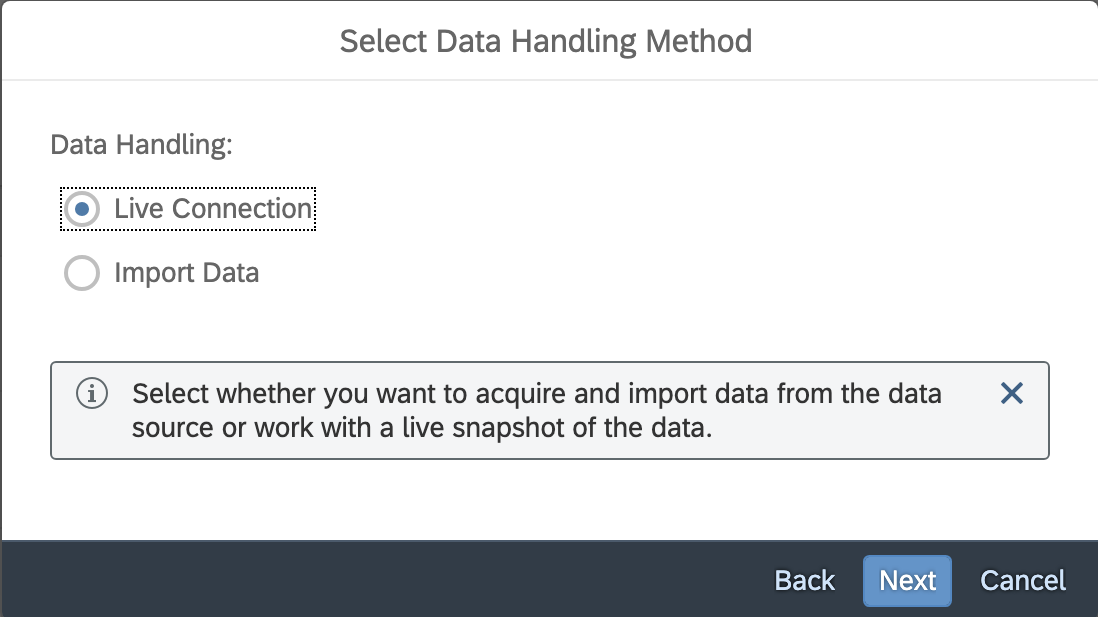
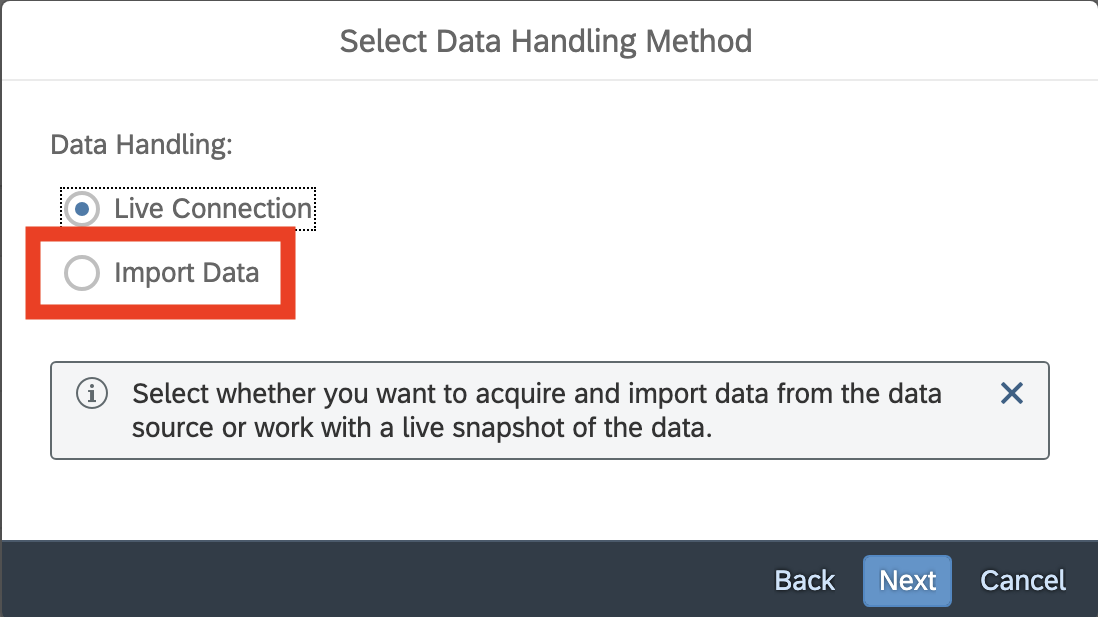
Ex1 Commit
Ready for Review

Changed region(s): [[0.0, 0.3387, 0.2787, 0.5235]]

diff --git a/exercises/ex1/README.md b/exercises/ex1/README.md
@@ -1,44 +1,306 @@
 # Exercise 1 - Exercise 1 Description
 
-In this exercise, we will create...  Teched2025-DA260_Ex1_Games2022
-
-## Exercise 1.1 Sub Exercise 1 Description
-
-After completing these steps you will have created...
-
-1. Click here.
-<br>![](/exercises/ex1/images/01_01_0010.png)
-
-2.	Insert this line of code.
-```abap
-response->set_text( |Hello World! | ). 
-```
+In contrast to Datasphere, where replication flows put data into tables that you can manipulate at will later on, data in SAC - whether acquired or federated - is always in the context of a semantic model.  Data can be added at the time of model creation, or added via load jobs later.  SAC models have automated table management, so the user simply worries about the semantic model and the required table schema is automatically created behind the scenes.
 
 
+Note!  Data acquisition and replication are synonyms.
 
-## Exercise 1.2 Sub Exercise 2 Description
+Teched2025-DA260_Ex1_Games2022
 
-After completing these steps you will have...
+## Step 0
 
-1.	Enter this code.
-```abap
-DATA(lt_params) = request->get_form_fields(  ).
-READ TABLE lt_params REFERENCE INTO DATA(lr_params) WITH KEY name = 'cmd'.
-  IF sy-subrc <> 0.
-    response->set_status( i_code = 400
-                     i_reason = 'Bad request').
-    RETURN.
-  ENDIF.
+With SAC open, take a moment to orient yourself.  The navigation bar on the left side and the information bar along the top are shared across BDC tools, so if you know the basics of how to navigate in one, you know it for all.  
 
-```
+In the center canvas, you have some options.  There are four tabs, 
+- **Today**: Where you can access tutorials, see files that you have recently opened and use AI to answer questions about your data.
+- **Catalog**: Where you can access the data catalog.
+- **Favorites**: Where you can see items that you have tagged as favorites.
+- **Shared With Me**: Where you can see content that other users have created and shared with you.
 
-2.	Click here.
-<br>![](/exercises/ex1/images/01_02_0010.png)
+Of course, you can also access everything through the various modules - Data Analyzer, Story Workbench, Modeling Workbench, etc. - in the navigation panel.  
+
+To begin the exercise, select the Modeling Workbench, from the navigation panel.
+
+![Step 00](images/Teched2025-DA260_Ex1_00.png)
+
+
+
+## Step 1
+
+Take a moment to familiarize yourself with the layout of the Modeling Workbench's entry page.  You'll see:
+- A list of models, created by you and created by others and shared with you.  This is where you can edit existing models.
+- A button to create a new data model.  This is for the SAC data model (as opposed to the Datasphere or various remote model options).  Wherever the data is stored (acquired or live), the semantic model is in SAC.
+- A button to create a new Live Data Model.  
+
+The term **Live Data Model** can be confusing, because both model types allow for live data.
+- **Live Data Model** really means "remote model with live data.  It is an alias for a BW Query, S/4 CDS View or HANA Calc View.  In this case, both the data and the semantic model are stored and managed in the remote system and SAC is simply acting as a consumer client.  This allows you e.g. to re-use the same queries in BW that your organization have re-used with many front end clients over the years and add them to stories, or analyze them in the Data Analyzer. You can't edit the remote model in any meaningful way from SAC and will have to use the tooling of the source system.
+
+- **Data Model** can use both live and acquired data, depending on the source.  The semantic model always resides in SAC, it is edited from this module, but can only be used in SAC.  
+
+![Step 1](images/Teched2025-DA260_Ex1_01.png)
+
+
+## Step 2
+
+Click on **Data Model**, to begin creating a new data model.
+
+![Step 2](images/Teched2025-DA260_Ex1_02.png)
+
+
+## Step 3
+
+You can create models from data, or you can start with an empty model.
+
+- **Start with Data:** In this mode, you will upload a file, or connect to data and the data table will be the starting point for your data modeling.  In short, you will design your model around the data that you have on hand.  This is also referred to as **data first modeling**. This is sometimes used for planning models, but it is most often associated with analytic scenarios.
+
+- **Start an empty Model:** In this mode, you'll define the semantic structure of the model, while the fact table is still empty, and load data later.  It is conceptually akin to creating an SQL schema, as you'll define your columns, data types, which ones are measures and dimensions, which dimensions are single columns versus having a fully defined dimension table, etc. This is also referred to as **data first modeling**.
+
+Select **Start with data** and then click **Next**.
+
+![Step 3](images/Teched2025-DA260_Ex1_03.png)
+
+
+## Step 4
+
+If you have configured your SAC tenant to use Datasphere as it's storage location, you have the option here to use that.  Making that configuration is not part of this exercise, so we will be using SAP Analytics Cloud as our storage location.  
+
+Select **SAP Analytics Cloud** and click **Next**.
+
+![Step 4](images/Teched2025-DA260_Ex1_04.png)
+
+
+## Step 5
+
+(This is just informative). If you had selected Datasphere, you'd select the appropriate space from a dropdown list.
+
+**Do not do this**, as it is not properly configured.
+
+![Step 5](images/Teched2025-DA260_Ex1_05.png)
+
+
+## Step 6
+
+The data source selector has a search bar and two columns.  The left column is a list of available data sources.  The right side is a list of checkboxes, which can be used to filter the list on the left.  These checkboxes can be based on supported capabilities (e.g. sources that support live data or acquisition, cloud based or on-premise, etc.), vendor, etc.
+
+Click the checkbox for **Google**, to filter the list down to Google sources.
+
+![Step 6](images/Teched2025-DA260_Ex1_06.png)
+
+
+
+## Step 7
+
+Notice that the list of data sources has been filtered to Google Drive and Google Big Query.
+
+Click on **Google Big Query**, to proceed to the next step.
+
+![Step 7](images/Teched2025-DA260_Ex1_08.png)
+
+
+## Step 8
+
+You will now see a dialog, asking you which connection you want to use.  Creating and maintaining connections to Google Big Query (GBQ) - configuring the URL, uploading the key file, etc. - is performed as a central administrative role.  This had been already been performed for you on this tenant, but if you wish to see how it is done, it is described in the help documentation, [here](https://help.sap.com/docs/SAP_ANALYTICS_CLOUD/00f68c2e08b941f081002fd3691d86a7/c67857c09b714f03b74464d00ef0c55b.html).
+
+Select the connection GBQ and click **Next**.
+
+
+![Step 8](images/Teched2025-DA260_Ex1_09.png)
+
+
+## Step 9
+
+You have the option to create a new query, or select an existing one.  Select the option to create a new query and click **Next**.
+
+![Step 9](images/Teched2025-DA260_Ex1_10.png)
+
+
+## Step 10
+
+Since this exercise is about creating a model with acquired/replicated data select **Import Data** and click **Next**.
+
+![Step 10](images/Teched2025-DA260_Ex1_11.png)
+
+
+## Step 11
+
+Give your query a name, for later reference.
+
+Select **Build a Query** to access the visual query builder.
+
+From the available tables in the GBQ project, select **World Cup > Games 2022**.
+
+Click **Next**.
+
+![Step 11](images/Teched2025-DA260_Ex1_12.png)
+
+
+## Step 12
+
+Take a moment to orient yourself in the query builder.  There are three areas, **Available Data**, **Selected Data**, and **Filters**.  **Selected Data** corresponds to the SQL "SELECT" and **Filters** corresponds to the SQL "WHERE", and **Available Data** lists all columns, as if you had executed an SQL "DESCRIBE" statement.   
+
+Note!  All columns are in text format, even columns whose names indicate that they would have numeric values.  A well maintained table would have all of this information properly maintained at the source, and you'd see different data types.  We don't always have the luxury of - as is the case here.  Not to worry, we'll be able to fix that later!
+
+Since we havent't seen the actual data yet and don't know which columns are useful or not, simply ass all to the selected data and click **Create**.
+
+![Step 12](images/Teched2025-DA260_Ex1_13.png)
+
+
+## Step 13
+
+You'll be taken to the SAC modeling environment.  Your initial state will look like the screenshot below.  Take a moment to familiarize yourself.
+
+Across the top menu, you'll see some meta function.  E.g. you can check validation, save, share, edit properties and access the other workspaces.  A few notes:
+ - **Workspaces** allows you to enter specialized tools for maintaining model structure, managing the incoming load jobs and outgoing export jobs, and editing calculations.  Calculations do not alter any data in the table, but are computed dynamically when used.
+- The table icon under **View** toggles the **Data Foundation** window on and off.  This shows the first 2000 records of your model's fact table, so that you can see what kind of data it has.  
+- **Validation** is a critical tool.  It provides feedback on structural and metadata problems in the model.  E.g. if cells contain data in the wrong format for their declared data type, if a dimension member has no corresponding dimension table entry, etc. In this case, the error is because your model does not have any measures and a data model requires at least one measure.  Remember when we mentioned that the source data had only text data, even for columns that seemed like they should have numerical data?  All columns were initially imported as dimensions, so we'll have to fix these ins later steps.
+**Model View** allows you to toggle between the (current) list vie and a graphical view more like a SQL schema diagram.  
+**Properties**, in the General group, let's you manage advanced attributes of your semantic model.
+
+In the details' pane, you can also access model properties and see the special properties configured for that model.  You can also see the data sources used by that model and the places where this model is used.  Since were setting up a new model based on an initial import, both of these will be empty for now.
+
+![Step 13](images/Teched2025-DA260_Ex1_14.png)
+
+
+## Step 14
+
+Click on **Validation**.
+
+
+![Step 14](images/Teched2025-DA260_Ex1_15.png)
+
+
+## Step 15
+
+Click on the text where validation is telling you that **The following objects are missing in your model**.
+
+Remember when we mentioned that the source data had only text data, even for columns that seemed like they should have numerical data?  All columns were initially imported as dimensions, so we'll have to fix this ins later steps.
+
+![Step 15](images/Teched2025-DA260_Ex1_16.png)
+
+
+## Step 16
+
+Toggle the **Data Foundation** window on and have a look at the data in your fact table.  This will be useful in the following steps.
+
+![Step 16](images/Teched2025-DA260_Ex1_32.png)
+
+
+## Step 17
+
+In the **Dimensions** area, click the checkboxes of columns that appear to maintain measure data.  Note!  All measures are numeric, but not all numeric values are measures.  A measure is specifically cardinal data; data suited for calculations.  Some numbers, such as the **Match** column are ordinal data and contain numbers used as identifiers.
+
+![Step 17](images/Teched2025-DA260_Ex1_20.png)
+
+
+## Step 18
+
+Click any of the ellipses in the right column of the Dimension table and select **Convert to Measure**.
+
+![Step 18](images/Teched2025-DA260_Ex1_21.png)
+
+
+## Step 19
+
+Select **Integer**
+
+You can leave the conversion format alone.
+
+Click **OK**.
+
+![Step 19](images/Teched2025-DA260_Ex1_22.png)
+
+
+## Step 20
+
+You will now see these columns in the **Measures** area and the validation error will be gone.
+
+![Step 22](images/Teched2025-DA260_Ex1_23.png)
+
+
+## Step 21
+
+Scroll down and have a look at which columns are measures and which are dimensions.  Feel free to toggle the **Data Foundation*** view back on and double check that the columns are all properly allocated to Dimensions and Measures.
+
+![Step 21](images/Teched2025-DA260_Ex1_24.png)
+
+
+## Step 22
+
+Save your model.
+
+Name it **Teched2025-DA260_Ex1_Games2022** and click **OK**.
+
+![Step 22](images/Teched2025-DA260_Ex1_25.png)
+
+
+## Step 23
+
+Before leaving the Modeling module, navigate to the **Data Management** Workspace.
+
+![Step 23](images/Teched2025-DA260_Ex1_33.png)
+
+
+## Step 24
+
+Here, you can see and manage the data flowing into and out of your data model.  In the **Import Jobs** section, you'll see a single import job, which was created when your model was created.  A model can have any number of load jobs, feeding its fact and dimension tables.  Here, you can see:
+- The name of the Query.
+- Where the data is coming from.
+- If it is a scheduled job, you can see that information.
+- When the last load job ran.
+- The status of the import setup.  Right now, it says that "import hasn't been run yet".If you click on Set Up Import, you'll be able to enter wrangling (data prep), map remote data columns to model measures and dimensions and run the job to load the data into the model.  This isn't needed now, though you may want to set up the import and schedule it, if you want to keep the model updated with any changes in the source system.  It is absolutely needed, when you create a load job for a model that already exists.
+- Under the ellipsis, you can edit the wrangling and mapping for the model.
+
+For load jobs that have been run, you can see how many rows were imported with successful imports, if any failed and how many rows were rejected as invalid on successful imports.  In case you were wondering why you'd want to edit the wrangling and mapping of existing load jobs, fixing rejected rows is the usual reason.
+
+In the **Export Jobs** section, you can see the same for export jobs.  Scheduled push exports can be configured for certain targets; e.g. File, BW and S/4.
+
+
+
+![Step 24](images/Teched2025-DA260_Ex1_34.png)
+
+
+## Step 25
+
+Now we'll have a look at your new model.
+
+From the Navigation bar, open the Data Analyzer.
+
+![Step 25_1](images/Teched2025-DA260_Ex1_26.png)
+
+
+
+![Step 25_2](images/Teched2025-DA260_Ex1_27.png)
+
+
+## Step 26
+
+Close the **Release Highlights** popup, if it appears.
+
+![Step 26](images/Teched2025-DA260_Ex1_28.png)
+
+
+## Step 27
+
+Select your model, **Teched2025-DA260_Ex1_Games2022**.
+
+![Step 27](images/Teched2025-DA260_Ex1_29.png)
+
+
+## Step 28
+
+Add **away_team**, **home_team**, and **match** to the rows.
+
+Add **attendance** to the columns.  You see your first SAC model in action.
+
+Feel free to modify your view and explore the data a bit.
+
+
+![Step 28](images/Teched2025-DA260_Ex1_30.png)
+
+
 
 
 ## Summary
 
-You've now ...
-
-Continue to - [Exercise 2 - Exercise 2 Description](../ex2/README.md)
+You've now created a new model in SAC by importing data.  
 
